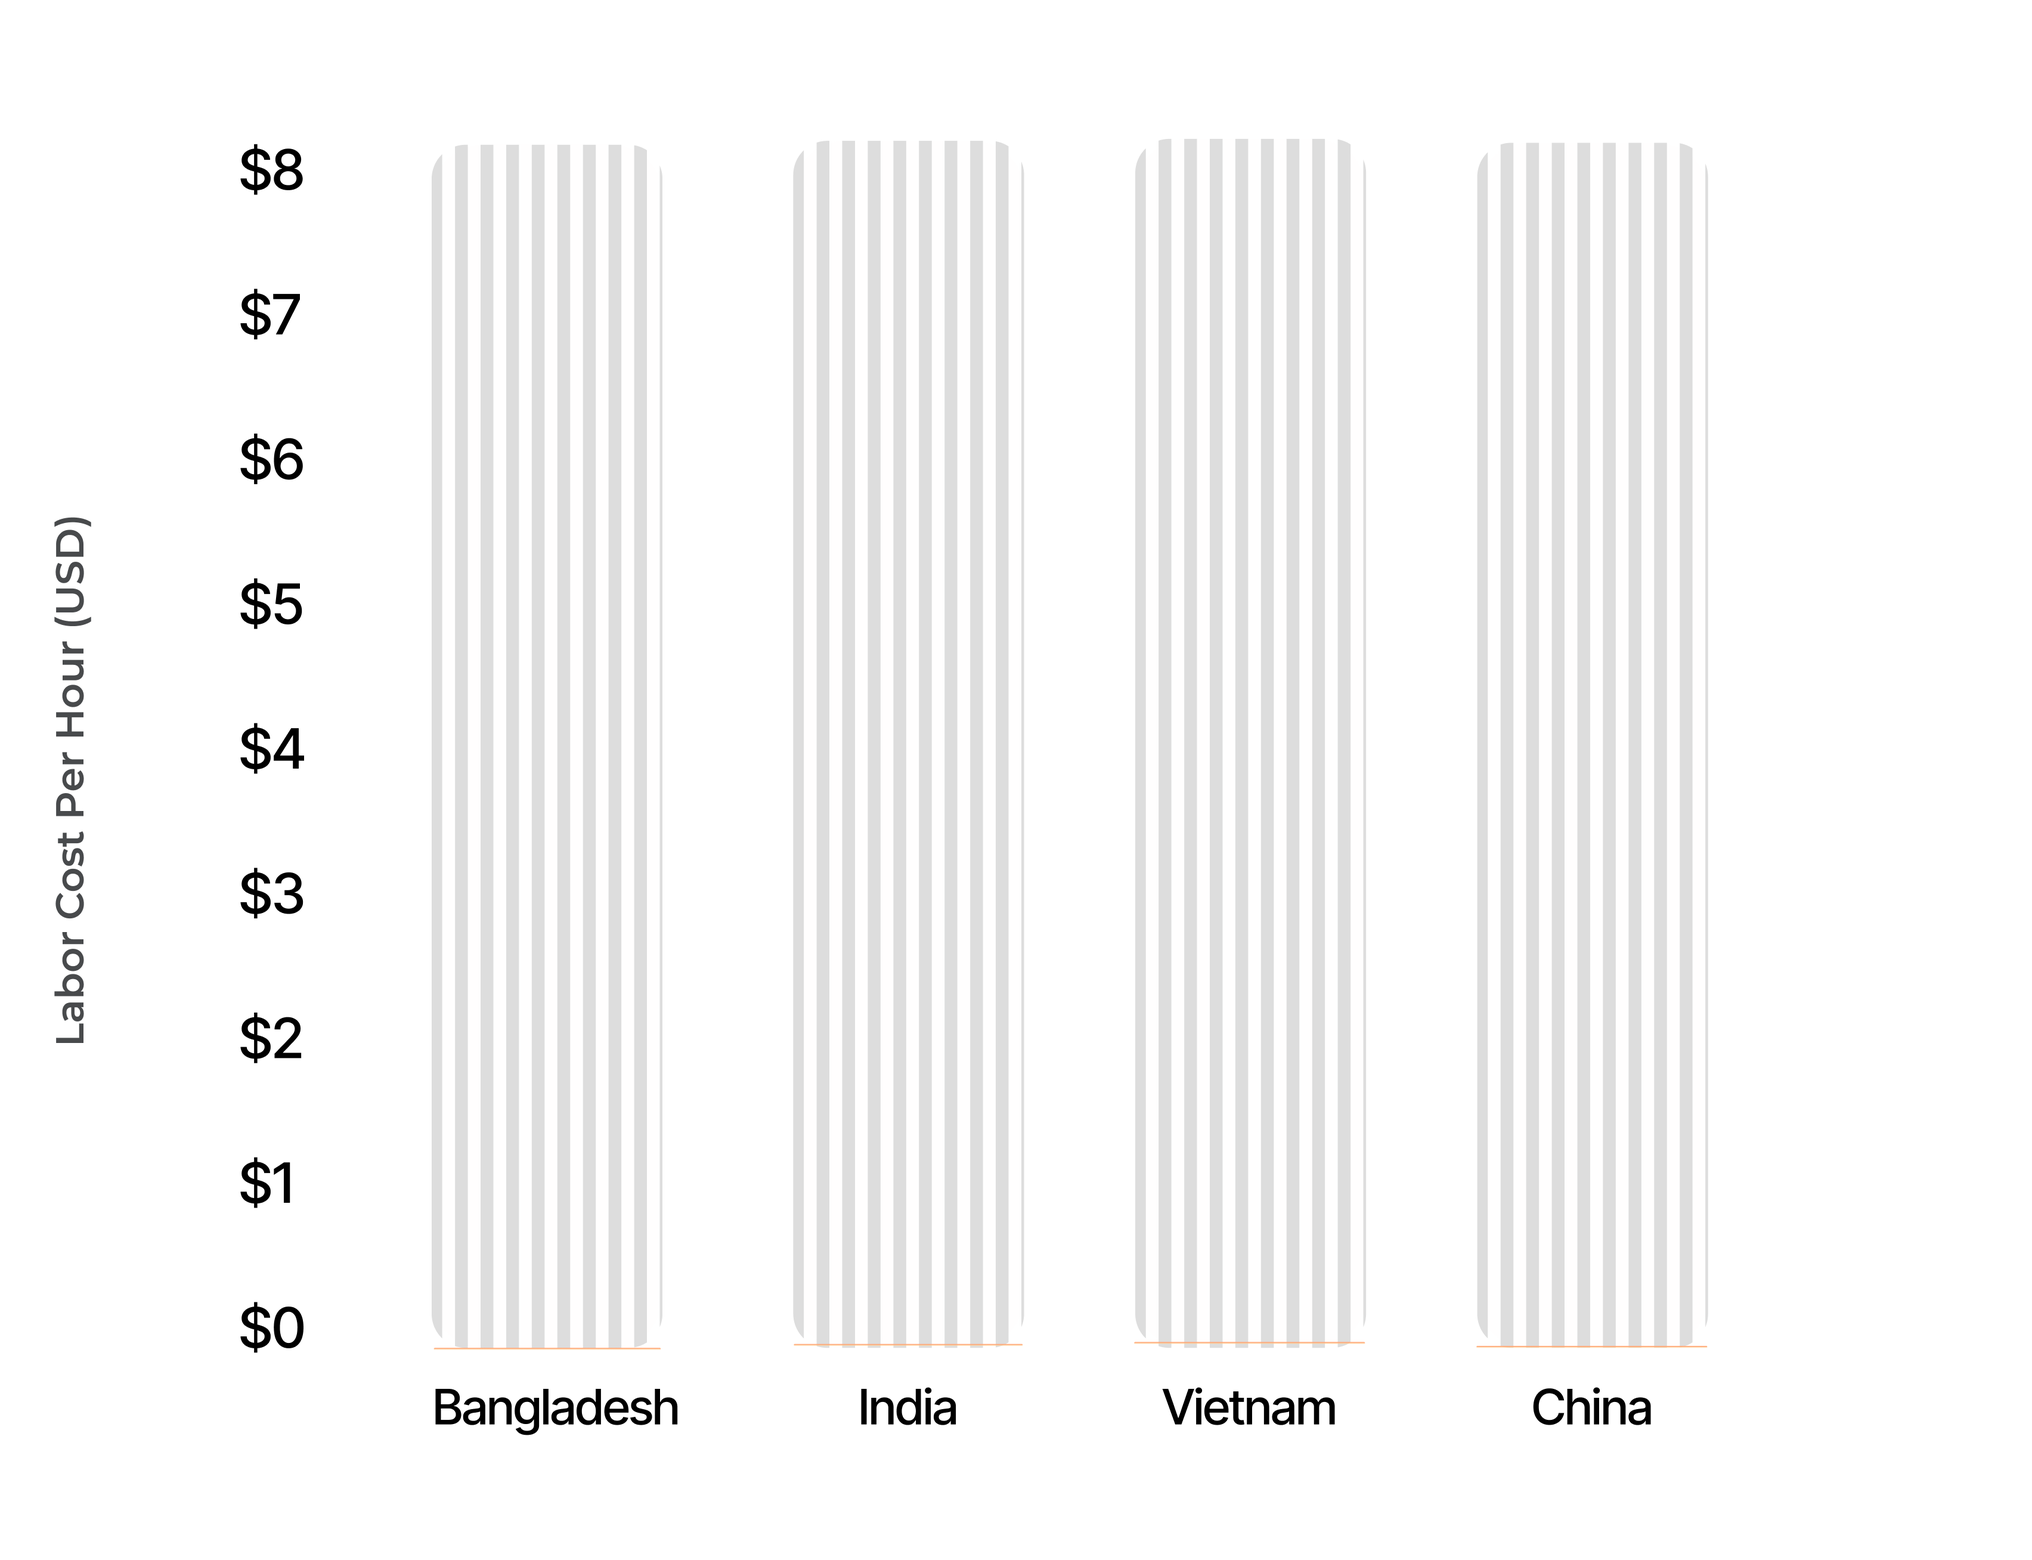
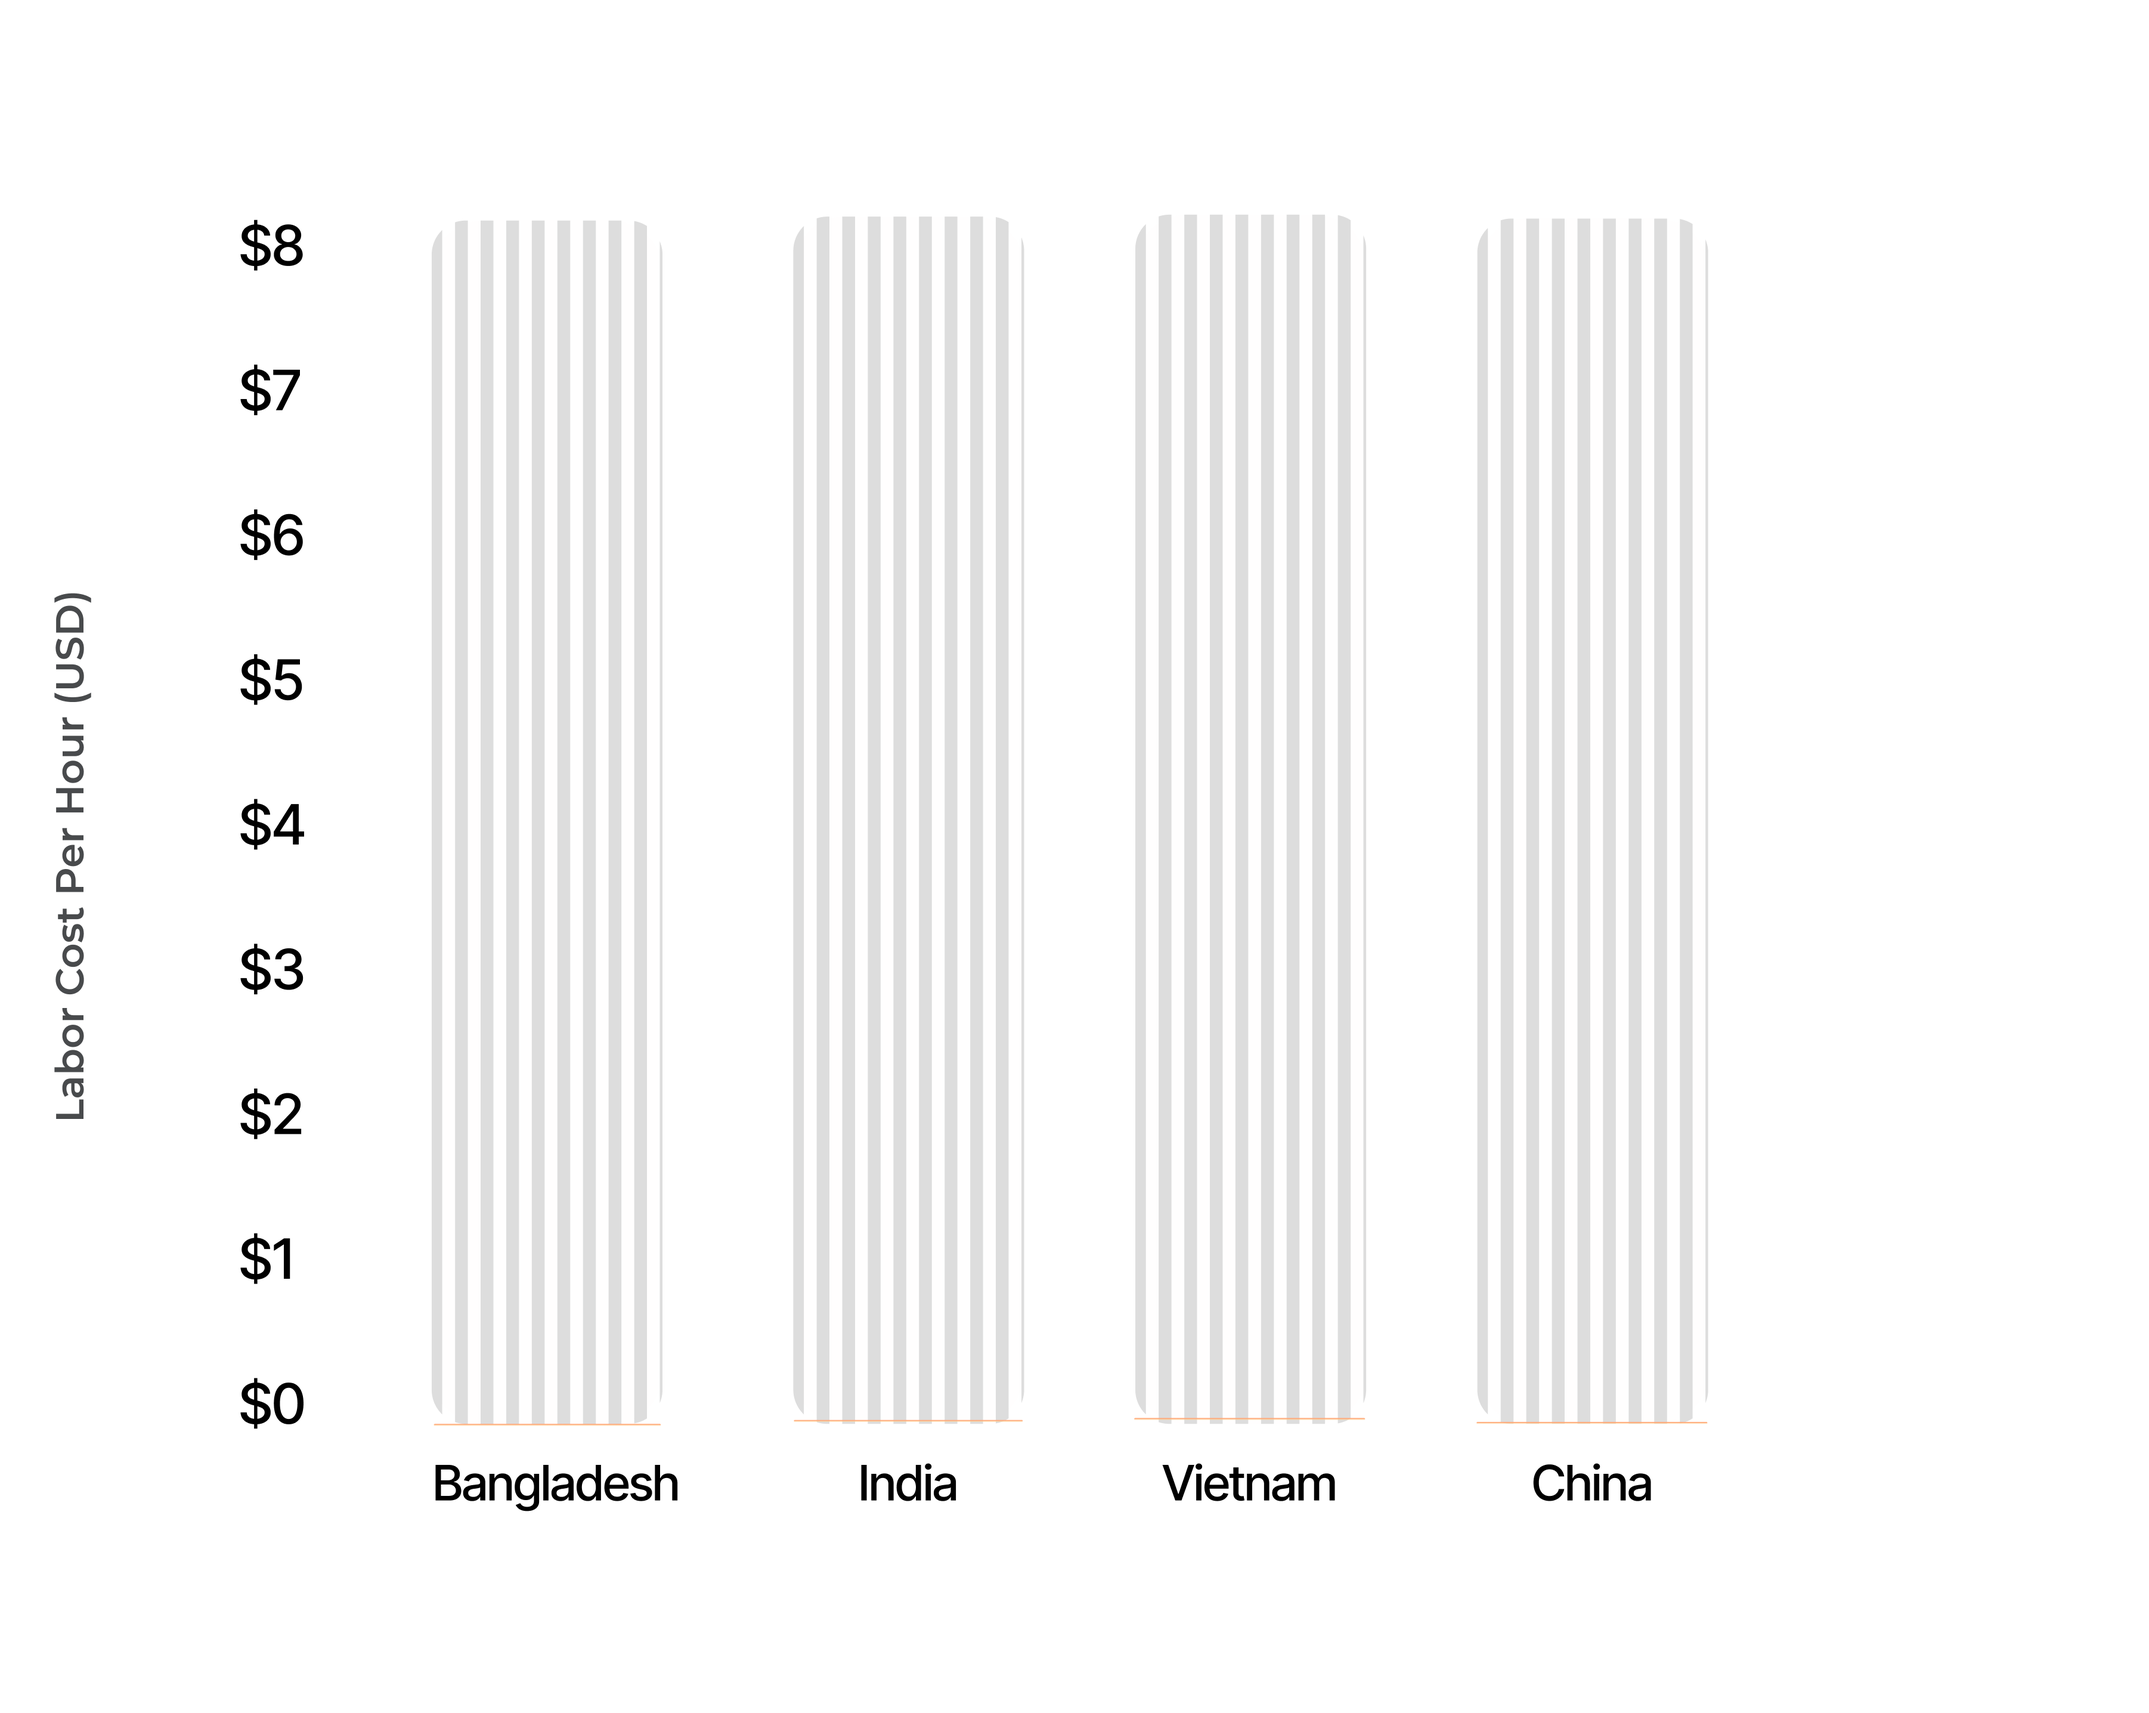
add animated image transition to Comparison component

diff --git a/src/pages/WhyChooseArbella/components/Comparison.jsx b/src/pages/WhyChooseArbella/components/Comparison.jsx
@@ -1,13 +1,24 @@
 // eslint-disable-next-line no-unused-vars
 import { motion } from "framer-motion";
+import { useState } from "react";
 
 const Comparison = () => {
+  const [showSecondImage, setShowSecondImage] = useState(false);
+
+  const handleInView = () => {
+    if (!showSecondImage) {
+      setTimeout(() => {
+        setShowSecondImage(true);
+      }, 1000);
+    }
+  };
+
   return (
     <section className="w-full bg-[#F7FDFF] py-12 md:py-16 lg:py-20">
       <div className="max-w-7xl mx-auto px-4 sm:px-6 lg:px-8">
         {/* Header */}
         <motion.h2
-          className="text-center font-[IvyPresto_Headline] text-[#000] text-2xl md:text-3xl lg:text-4xl font-light leading-8 md:leading-[78.313px] mb-8 md:mb-16"
+          className="text-center font-[IvyPresto_Headline] text-[#000] text-2xl md:text-3xl lg:text-4xl font-light leading-8 md:leading-[78.313px]"
           initial={{ y: 50, opacity: 0 }}
           whileInView={{ y: 0, opacity: 1 }}
           viewport={{ once: true, amount: 0.3 }}
@@ -23,17 +34,32 @@ const Comparison = () => {
           whileInView={{ y: 0, opacity: 1, scale: 1 }}
           viewport={{ once: true, amount: 0.2 }}
           transition={{ duration: 1.0, delay: 0.3, ease: "easeOut" }}
+          onViewportEnter={handleInView}
         >
-          <motion.img
-            src="/assets/images/whyChooseArbella/Spendings.png"
-            alt="Labor Cost Comparison Chart"
-            className="w-full h-auto max-w-xs md:w-[751px] md:h-[718px] md:max-w-none md:p-0"
-            initial={{ opacity: 0, rotateY: 15 }}
-            whileInView={{ opacity: 1, rotateY: 0 }}
-            viewport={{ once: true }}
-            transition={{ duration: 0.8, delay: 0.6, ease: "easeOut" }}
-            whileHover={{ scale: 1.02, transition: { duration: 0.3 } }}
-          />
+          <div className="relative w-full h-auto max-w-xs md:w-[751px] md:h-[718px] md:max-w-none">
+            {/* First Image */}
+            <img
+              src="/assets/images/whyChooseArbella/Spendings.png"
+              alt="Labor Cost Comparison Chart - Initial"
+              className="w-full h-auto transition-opacity duration-1000 ease-in-out"
+              style={{
+                opacity: showSecondImage ? 0 : 1,
+                position: "absolute",
+                top: 0,
+                left: 0,
+              }}
+            />
+            {/* Second Image */}
+            <img
+              src="/assets/images/whyChooseArbella/Spendings2.png"
+              alt="Labor Cost Comparison Chart - Updated"
+              className="w-full h-auto transition-opacity duration-1000 ease-in-out"
+              style={{
+                opacity: showSecondImage ? 1 : 0,
+                position: "relative",
+              }}
+            />
+          </div>
         </motion.div>
       </div>
     </section>
